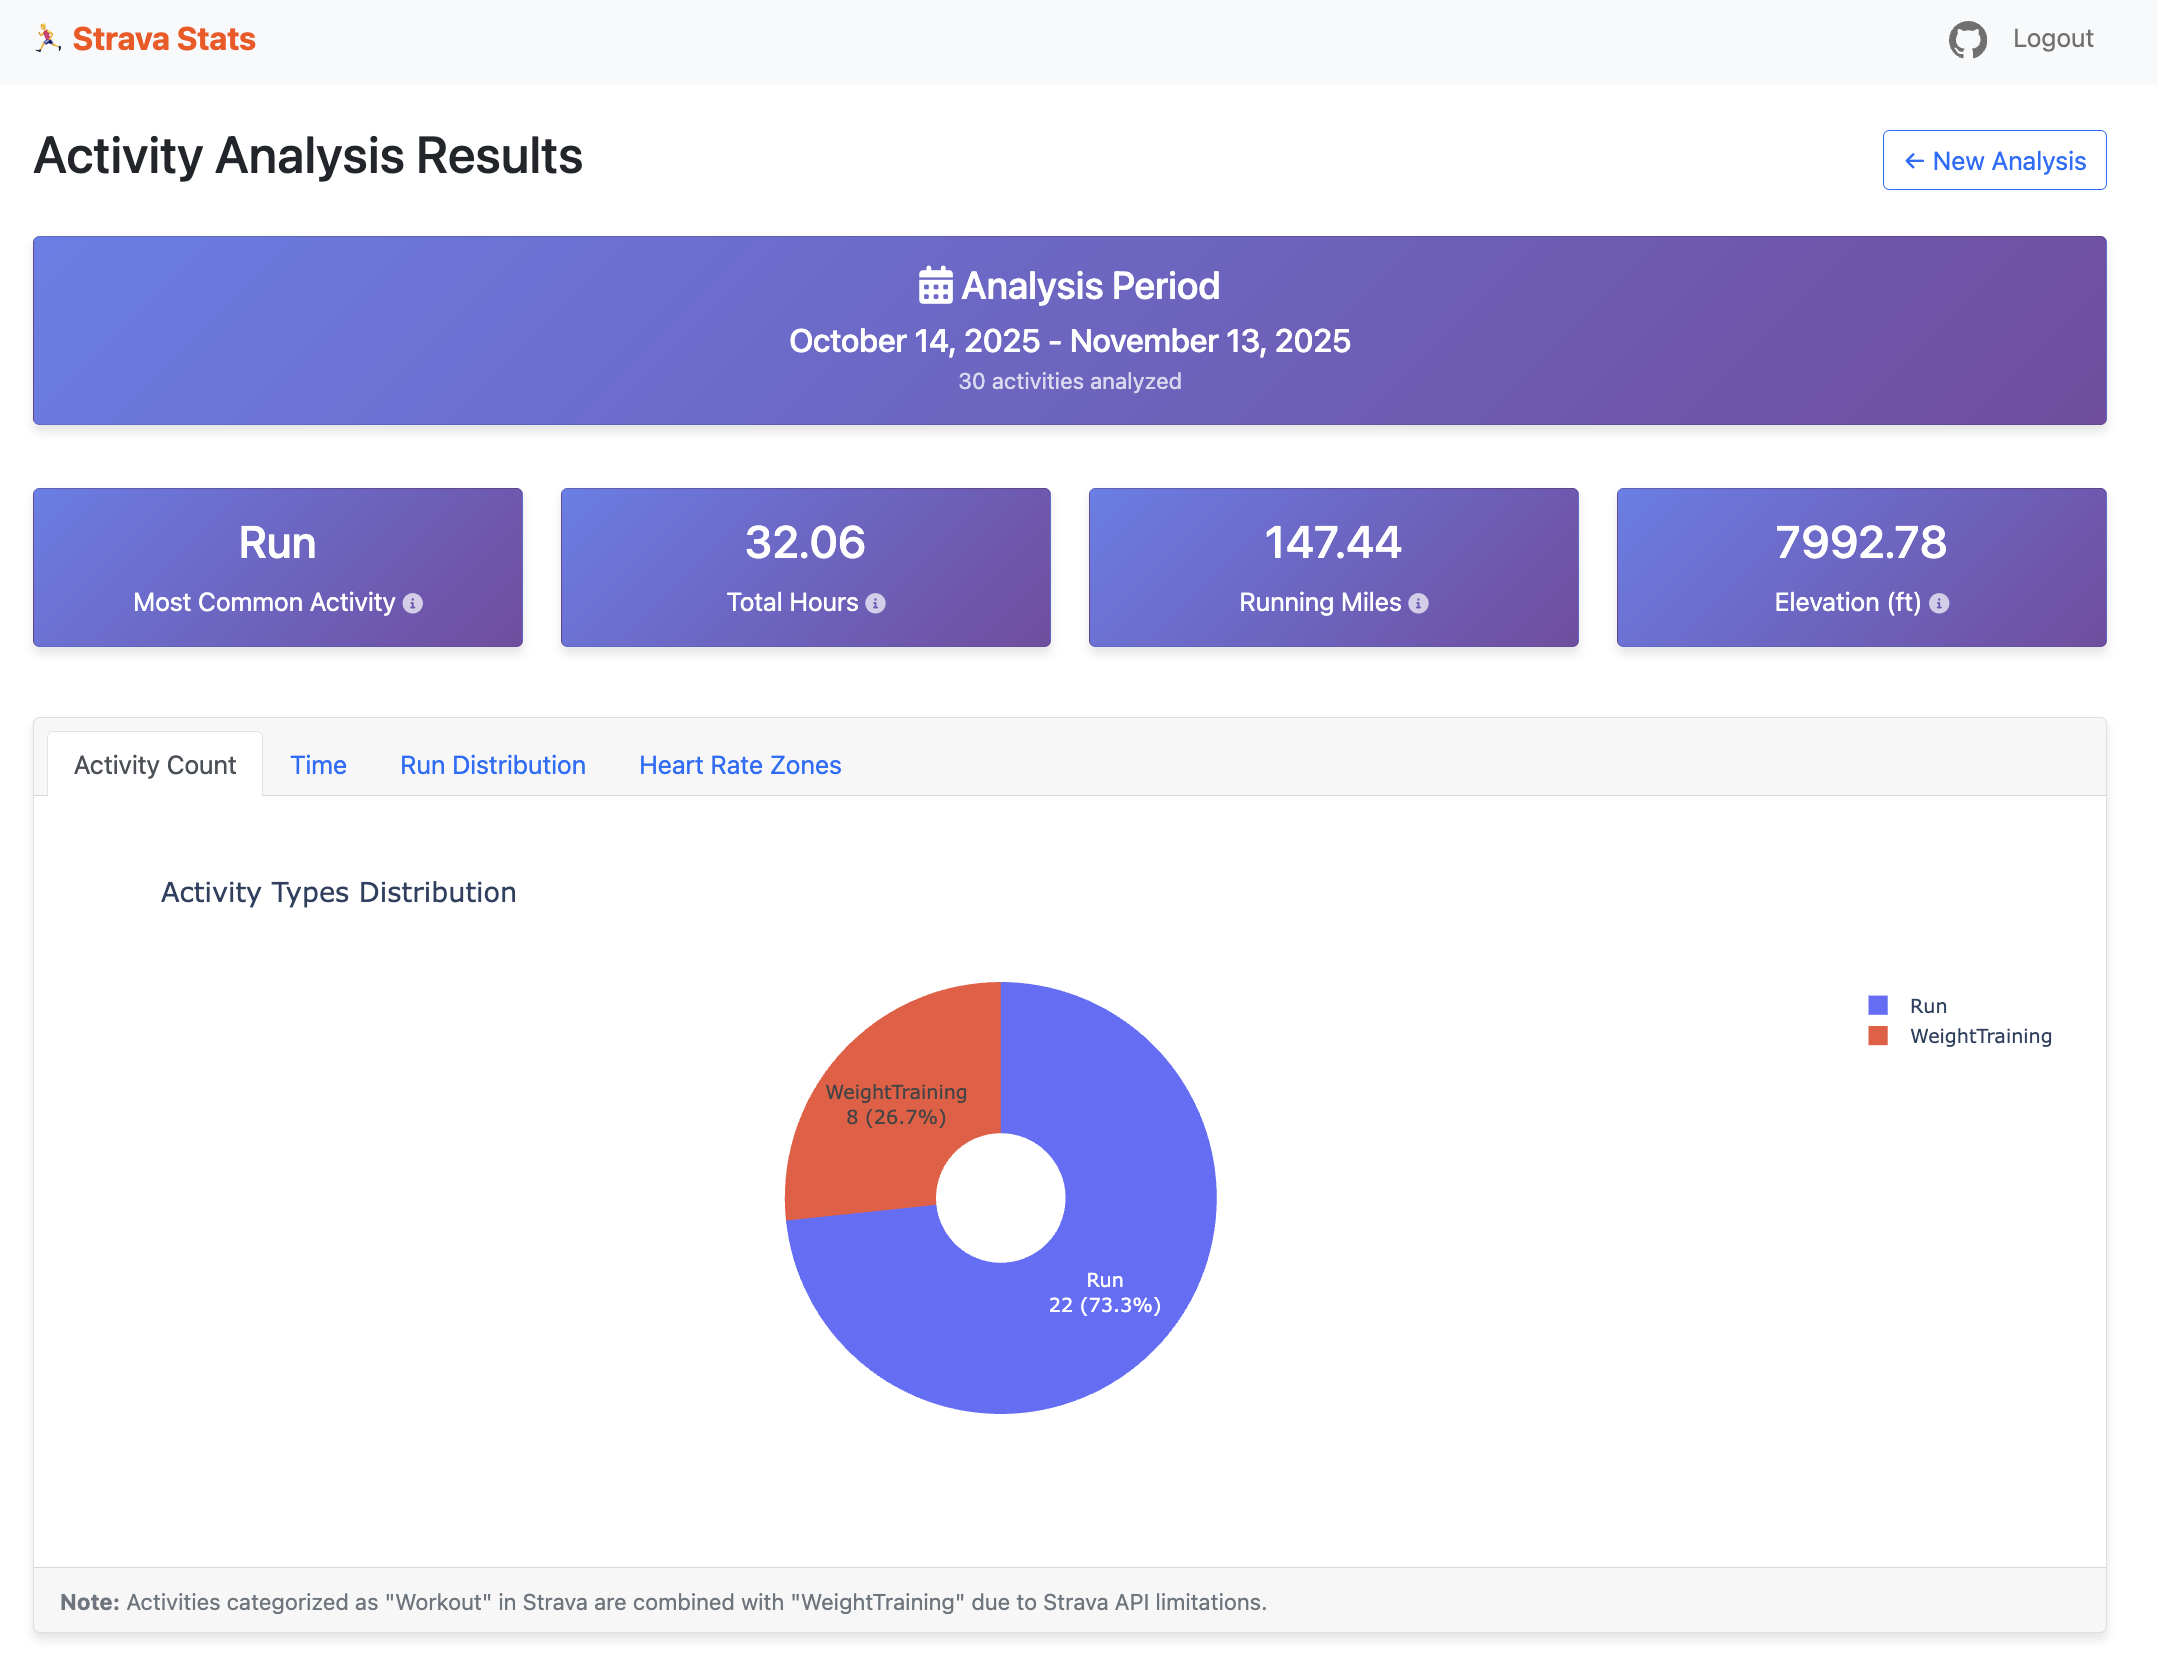
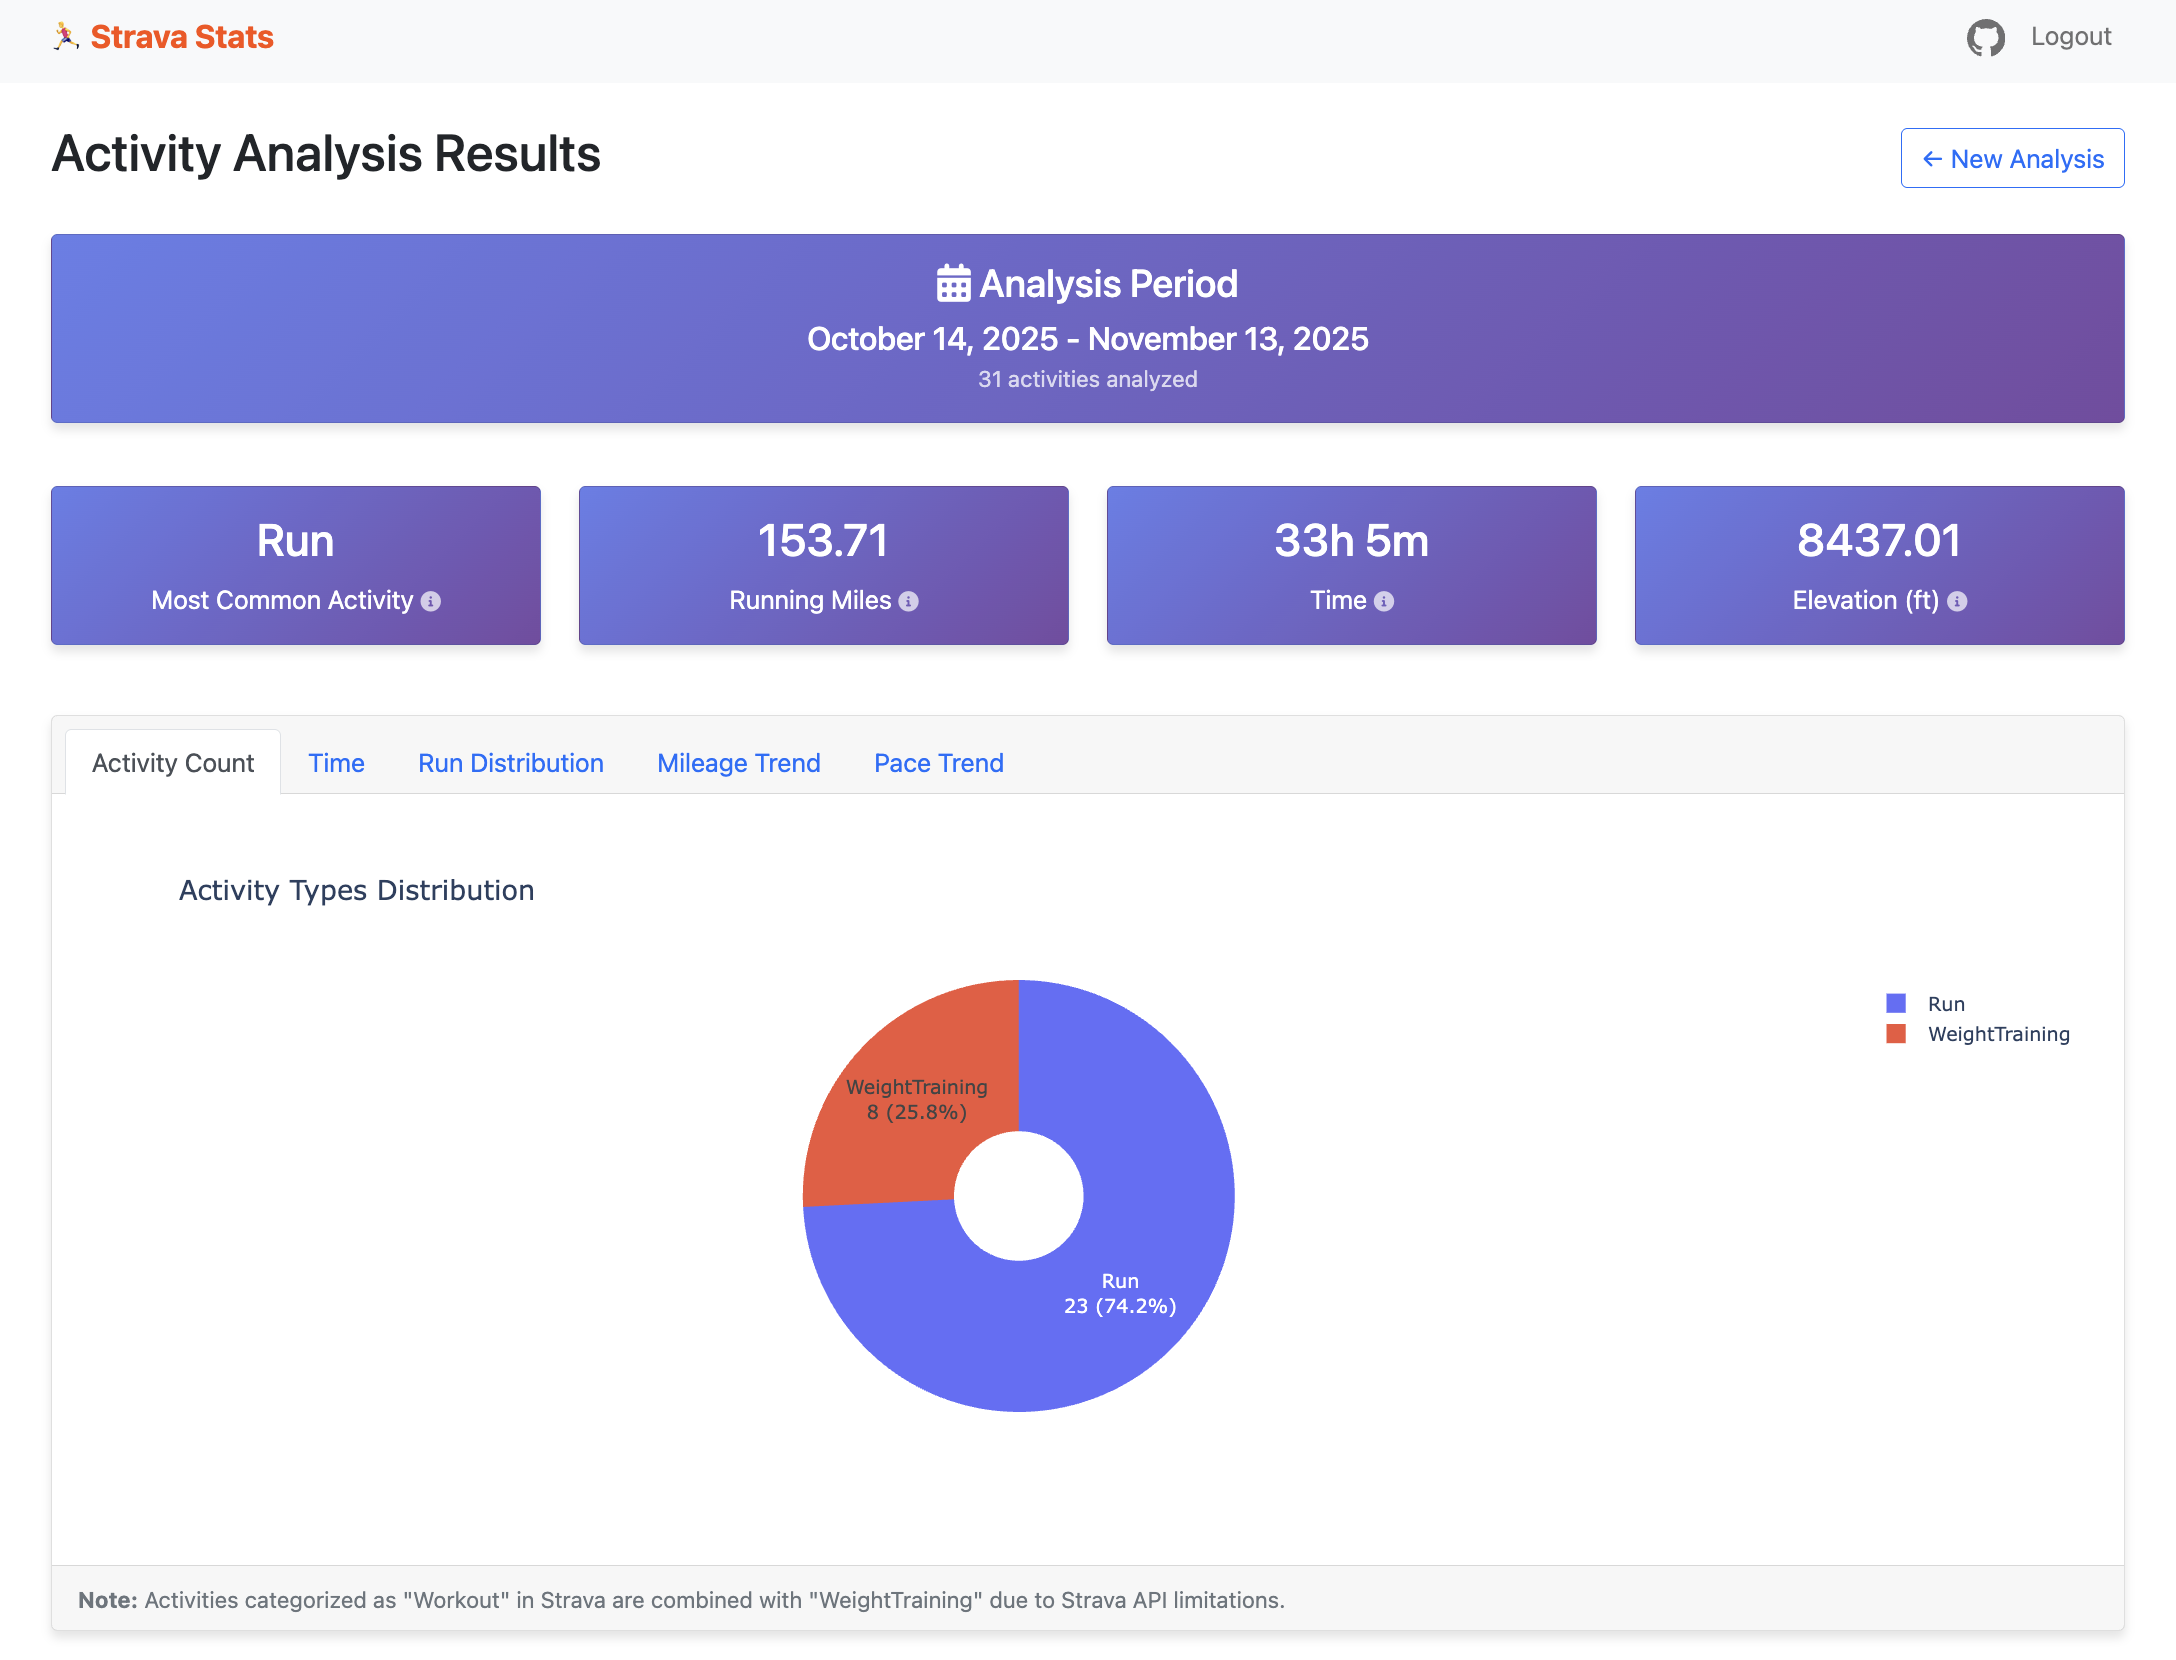
Add Mileage Trend and Pace Trend screenshots to README
- Add mileage-trend.png showing daily/weekly/monthly mileage charts
- Add pace-trend.png showing daily/weekly/monthly pace analysis
- Update all screenshots to reflect current UI
- Add new screenshot sections to README Output section

🤖 Generated with [Claude Code](https://claude.com/claude-code)

diff --git a/README.md b/README.md
@@ -40,6 +40,12 @@ A Python Flask web application that connects to your Strava account and provides
 ### Run Distribution
 ![Run Distribution](images/run-distribution.png)
 
+### Mileage Trend
+![Mileage Trend](images/mileage-trend.png)
+
+### Pace Trend
+![Pace Trend](images/pace-trend.png)
+
 ## Quick Start
 
 Get up and running in 3 steps:
